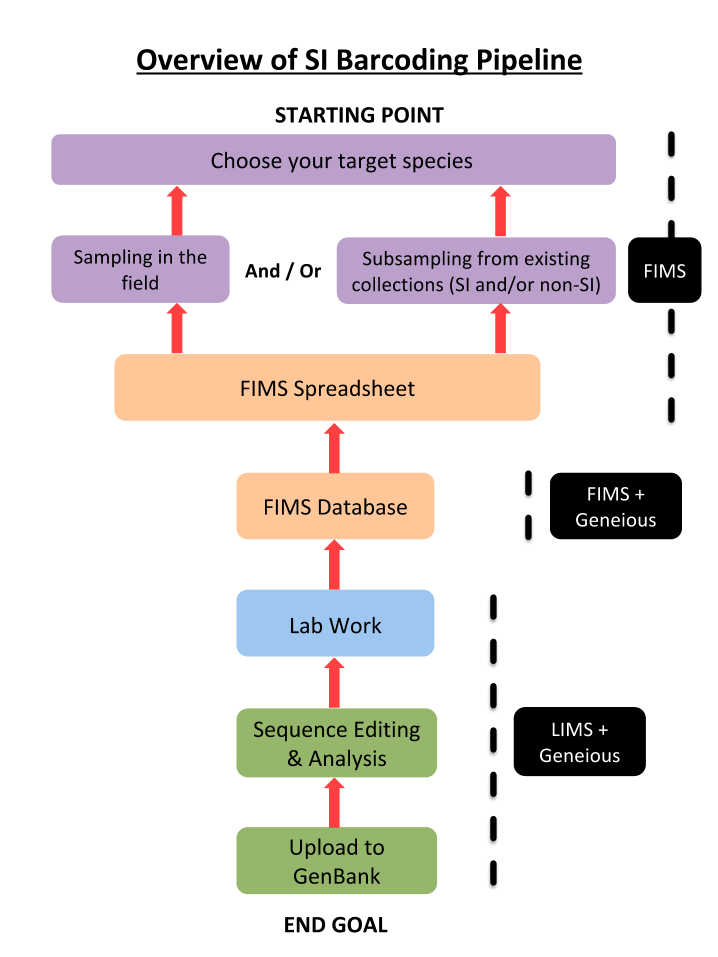
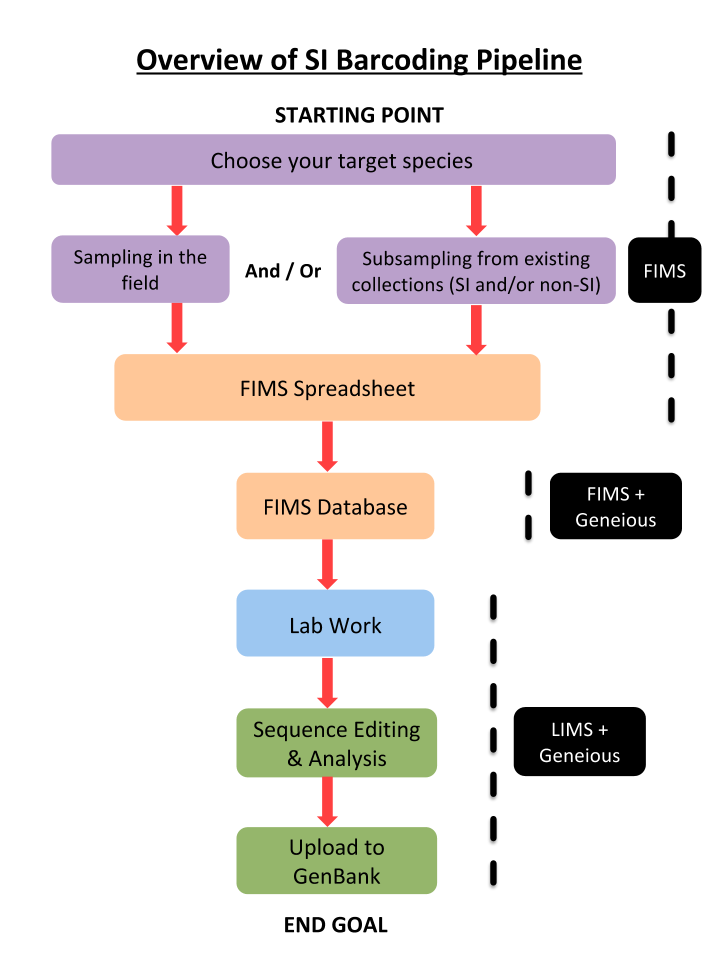
Fixed arrows in Pipeline image
Fixed arrows in Pipeline image so they are in the correction orientation

diff --git a/Docs/pcr_plates.rst b/Docs/pcr_plates.rst
@@ -1,4 +1,4 @@
-Generating PCR Plates
+Generating PCR plates
 =====================
 
 Searching for existing plates
